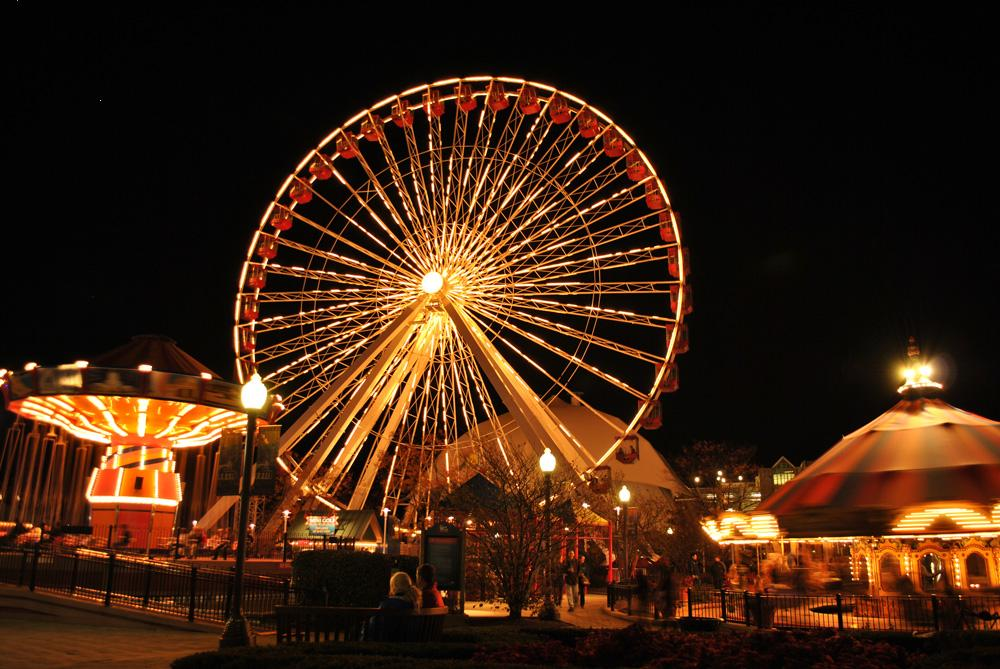
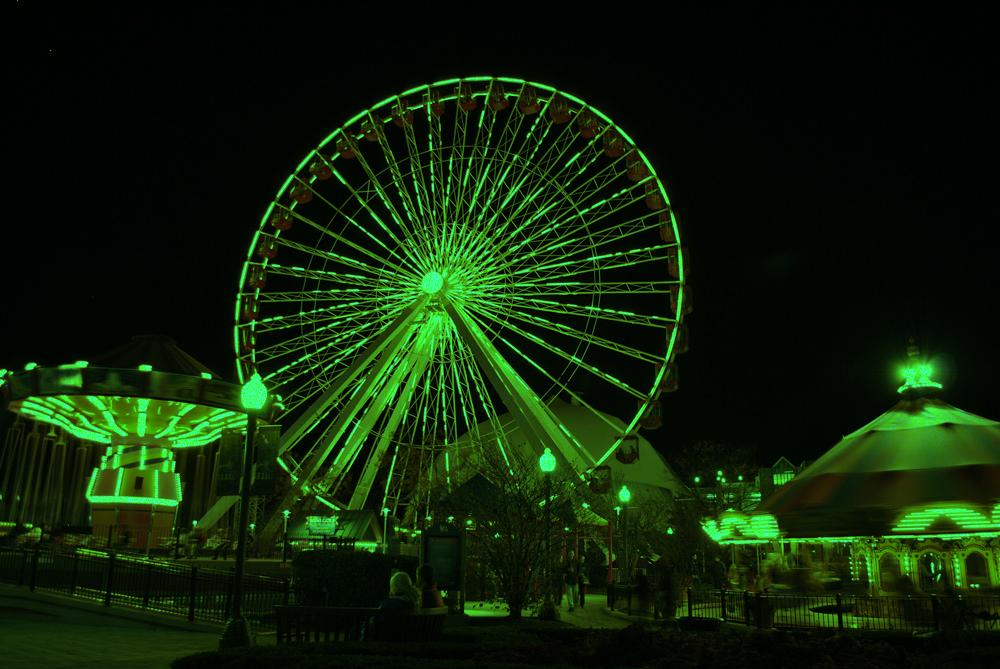
Color Labs

diff --git a/ColorLabs17/colorLabs.java b/ColorLabs17/colorLabs.java
@@ -1,0 +1,62 @@
+/*
+ * Emma Kennedy
+ * 11/10/25
+ * Color Labs
+ */
+public class colorLabs{
+    public static void main(String[] args){
+        Picture arch = new Picture("images\\arch.jpg");
+        Picture butterfly = new Picture("images\\butterfly1.jpg");
+        Picture beach = new Picture("images\\beach.jpg");
+        Picture swan = new Picture("images\\swan.jpg");
+        Picture temple = new Picture("images\\temple.jpg");
+        Picture barbaraS= new Picture("images\\barbaraS.jpg");
+        int red,green,blue;
+        //Adjust Colors
+        Pixel[] pixels1;
+        pixels1 = arch.getPixels();
+        
+        for (Pixel spot1: pixels1)
+        {
+            red=spot1.getRed();
+            red = (int)(red*0.5);
+            spot1.setRed(red);
+            green = spot1.getGreen();
+            green = (int)(green*1.5);
+            spot1.setGreen(green);
+            blue=spot1.getBlue();
+            blue=(int)(blue*0.25);
+            spot1.setBlue(blue);
+        }
+        arch.explore();
+        
+        
+        //negate:
+        Pixel[] pixels2;
+        pixels2 = butterfly.getPixels();
+        
+        for (Pixel spot1 : pixels2)
+        {
+            red = spot1.getRed();
+            red= 255-red;
+            spot1.setRed(red);
+            blue = spot1.getBlue();
+            blue = 255-blue;
+            spot1.setBlue(blue);
+            green = spot1.getGreen();
+            green = 255-green;
+            spot1.setGreen(green);
+        }
+        butterfly.explore();
+        
+        //grayscale();
+        
+        Pixel[] pixels3;
+        pixels3 = beach.getPixels();
+        
+        for (Pixel spot1:pixels3)
+        {
+            red=spot1.getRed();
+        }
+    }
+}

diff --git a/ColorLabs17/TestPicture17.java b/ColorLabs17/TestPicture17.java
@@ -8,7 +8,8 @@
  */
 import java.awt.*;
 import java.util.*;
-import java.util.List; // resolves problem with java.awt.List and java.util.List
+import java.util.List;
+import java.util.Random; // resolves problem with java.awt.List and java.util.List
 public class TestPicture17
 {
 
@@ -63,7 +64,7 @@ public class TestPicture17
     spot17.setGreen(175);
     
     spot.setColor(Color.yellow);
-    spot50.setColor(Color.ltSteel);
+    spot50.setColor(ltSteel);
     
     ferris1.explore();
 /*
@@ -74,15 +75,38 @@ public class TestPicture17
     //pixels[500034].setColor(Color.blue);
 
     ferris1.explore();
-/*
+    
+/**/
    // loop to access indexes of array or collection
 
     //for each loop spot  is a ?
-    for (Pixel spot : pixels)
-    System.out.println( spot );
+    int red;
+    for (Pixel spot1 : pixels)
+    {
+    red=spot1.getRed();
+    red=(int)(red*.25);
+    spot1.setRed(red);
+}
+ferris1.explore();
 
+/*int blue;
+for (Pixel spot1 : pixels)
+{
+    blue=spot1.getBlue();
+    blue = (int)(Math.random()*blue);
+    spot1.setBlue(blue);
+}
+ferris1.explore();*/
 
-   
+int green;
+int count=0;
+for (Pixel spot1 : pixels)
+    {
+        if (count%20 == 0)
+        { spot1.setColor(Color.yellow);
+            count++;}
+    }
+    ferris1.explore();
  /**/
 
  /**
